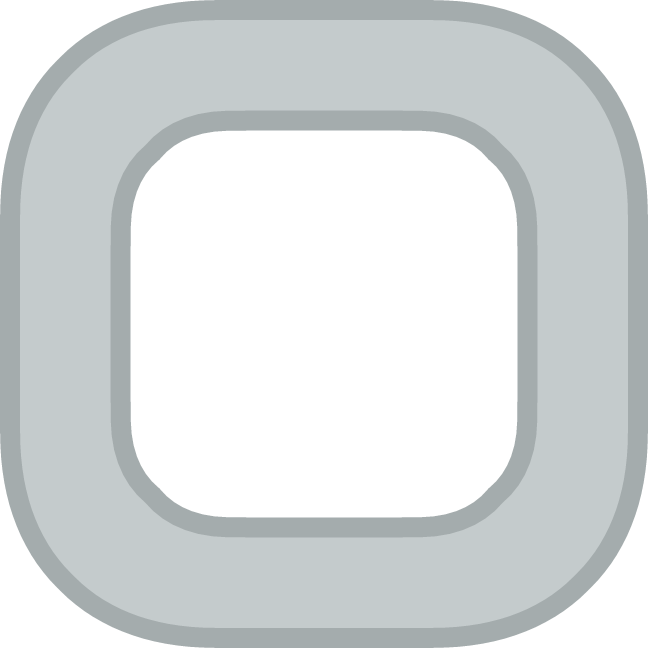
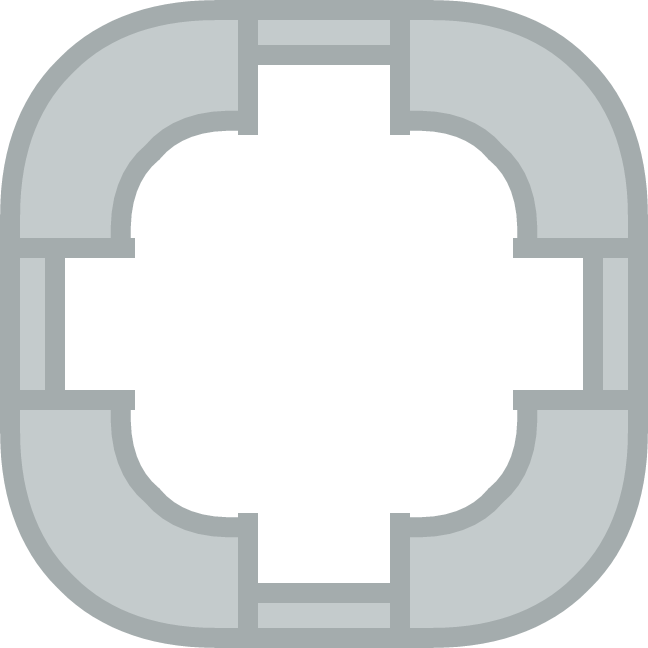
枠を「辺は細く・四隅だけ太い」に作り直し（版 2026-08-11p）
見本の角を拡大した画像をもらい、作りが違うことが分かった。
版nは全部の辺を太い帯にしていたが、正しくは
「辺は細い帯／四隅だけ太い帯」で、その境目に段が付く。

- もらった絵は太い帯だけなので、断面を測って同じ色で細い帯を作った
  （フチ #a4acad ／中身 #c4cbcc、細い帯＝太い帯の48%）
- 角から238pxの位置で段を付け、そこから先を細い帯に。段は内側に付ける
  （外側の線は通しのまま。外に段を付けると枠が波打って見える）
- 寸法 太い帯135px／細い帯65px／外側の丸み194px／角300px
  画面で細い帯を約4pxにしたいので 4÷(65/300)≒18px、丸みは12px
- 作り方は icons/README_frame.md に更新して残した
版名4点セットを 2026-08-11p / nn-cache-v99 に更新

diff --git a/kirokucho_demo.html b/kirokucho_demo.html
@@ -4247,7 +4247,7 @@ nav, nav#nav{justify-content:center !important; padding-left:6px !important; pad
    古いものが出続けることがある。そこで ver.txt（数バイト）だけを
    毎回見に行き、公開版と違っていたら保存分を捨てて1回だけ読み直す。
    ★公開のたびに ver.txt と、下の NN_VER を同じ文字に更新すること。 */
-const NN_VER='2026-08-11n';
+const NN_VER='2026-08-11p';
 /* ============ 表示にかかった時間の記録（原因調査用・2026-07-28） ============
    スマホの実機でどこに時間がかかっているかを数字で出す。
    ・net  ＝ページを要求してから最初の返事が来るまで（通信の待ち）
@@ -5856,17 +5856,17 @@ html[data-nnphone="1"] .stchip.on{ padding:5px 11px !important; }
      画面で帯を約6pxにしたいので 6 ÷ (130/300) ≒ 14px を border-width に。
      背景の角も 194×(14/300) ≒ 9px で丸めて、帯の外側の曲がりに合わせる。 */
 html.nnhasframe #dashboard .dpanel{
-  border:14px solid transparent !important;
-  border-image:url('./icons/frame_panel.png') 300 / 14px / 0 stretch !important;
-  border-radius:9px !important;
+  border:18px solid transparent !important;
+  border-image:url('./icons/frame_panel.png') 300 / 18px / 0 stretch !important;
+  border-radius:12px !important;
   background:linear-gradient(180deg,#ffffff 0%,#fbfdfb 70%,#f5f9f5 100%) !important;
   box-shadow:0 2px 5px rgba(30,60,42,.16) !important;
   padding:10px 12px 11px !important;
 }
 html.nnhasframe[data-nnphone="1"] #dashboard .dpanel{
-  border-width:11px !important;
-  border-image-width:11px !important;
-  border-radius:7px !important;
+  border-width:15px !important;
+  border-image-width:15px !important;
+  border-radius:10px !important;
   padding:7px 9px 8px !important;
 }
 html.nnhasframe #dashboard .dpanel::before,

diff --git a/index.html b/index.html
@@ -369,7 +369,7 @@ nav, nav#nav{overflow:visible; padding-top:2px;}
 
 <!-- 版の表示：スマホに届いている中身がどれかを、お互いに確認するための小さな印。
      不要になったらこの1行と #nnver の指定を消してください。 -->
-<div id="nnver">v2026-08-11 n</div>
+<div id="nnver">v2026-08-11 p</div>
 <script>
 /* ============ 実機の計測結果を表示（原因調査用・2026-07-28） ============
    数字の意味（単位はミリ秒）
@@ -703,7 +703,7 @@ nav, nav#nav{justify-content:center !important; padding-left:6px !important; pad
    古いものが出続けることがある。そこで ver.txt（数バイト）だけを
    毎回見に行き、公開版と違っていたら保存分を捨てて1回だけ読み直す。
    ★公開のたびに ver.txt と、下の NN_VER を同じ文字に更新すること。 */
-const NN_VER='2026-08-11n';
+const NN_VER='2026-08-11p';
 /* ============ 表示にかかった時間の記録（原因調査用・2026-07-28） ============
    スマホの実機でどこに時間がかかっているかを数字で出す。
    ・net  ＝ページを要求してから最初の返事が来るまで（通信の待ち）

diff --git a/camera.html b/camera.html
@@ -1085,7 +1085,7 @@ nav, nav#nav{justify-content:center !important; padding-left:6px !important; pad
    古いものが出続けることがある。そこで ver.txt（数バイト）だけを
    毎回見に行き、公開版と違っていたら保存分を捨てて1回だけ読み直す。
    ★公開のたびに ver.txt と、下の NN_VER を同じ文字に更新すること。 */
-const NN_VER='2026-08-11n';
+const NN_VER='2026-08-11p';
 /* ============ 表示にかかった時間の記録（原因調査用・2026-07-28） ============
    スマホの実機でどこに時間がかかっているかを数字で出す。
    ・net  ＝ページを要求してから最初の返事が来るまで（通信の待ち）

diff --git a/genba_map_v36.html b/genba_map_v36.html
@@ -4670,7 +4670,7 @@ nav, nav#nav{justify-content:center !important; padding-left:6px !important; pad
    古いものが出続けることがある。そこで ver.txt（数バイト）だけを
    毎回見に行き、公開版と違っていたら保存分を捨てて1回だけ読み直す。
    ★公開のたびに ver.txt と、下の NN_VER を同じ文字に更新すること。 */
-const NN_VER='2026-08-11n';
+const NN_VER='2026-08-11p';
 /* ============ 表示にかかった時間の記録（原因調査用・2026-07-28） ============
    スマホの実機でどこに時間がかかっているかを数字で出す。
    ・net  ＝ページを要求してから最初の返事が来るまで（通信の待ち）

diff --git a/kokkosho.html b/kokkosho.html
@@ -2382,7 +2382,7 @@ nav, nav#nav{justify-content:center !important; padding-left:6px !important; pad
    古いものが出続けることがある。そこで ver.txt（数バイト）だけを
    毎回見に行き、公開版と違っていたら保存分を捨てて1回だけ読み直す。
    ★公開のたびに ver.txt と、下の NN_VER を同じ文字に更新すること。 */
-const NN_VER='2026-08-11n';
+const NN_VER='2026-08-11p';
 /* ============ 表示にかかった時間の記録（原因調査用・2026-07-28） ============
    スマホの実機でどこに時間がかかっているかを数字で出す。
    ・net  ＝ページを要求してから最初の返事が来るまで（通信の待ち）

diff --git a/library.html b/library.html
@@ -1115,7 +1115,7 @@ nav, nav#nav{justify-content:center !important; padding-left:6px !important; pad
    古いものが出続けることがある。そこで ver.txt（数バイト）だけを
    毎回見に行き、公開版と違っていたら保存分を捨てて1回だけ読み直す。
    ★公開のたびに ver.txt と、下の NN_VER を同じ文字に更新すること。 */
-const NN_VER='2026-08-11n';
+const NN_VER='2026-08-11p';
 /* ============ 表示にかかった時間の記録（原因調査用・2026-07-28） ============
    スマホの実機でどこに時間がかかっているかを数字で出す。
    ・net  ＝ページを要求してから最初の返事が来るまで（通信の待ち）

diff --git a/shiyo_toroku.html b/shiyo_toroku.html
@@ -1622,7 +1622,7 @@ nav, nav#nav{justify-content:center !important; padding-left:6px !important; pad
    古いものが出続けることがある。そこで ver.txt（数バイト）だけを
    毎回見に行き、公開版と違っていたら保存分を捨てて1回だけ読み直す。
    ★公開のたびに ver.txt と、下の NN_VER を同じ文字に更新すること。 */
-const NN_VER='2026-08-11n';
+const NN_VER='2026-08-11p';
 /* ============ 表示にかかった時間の記録（原因調査用・2026-07-28） ============
    スマホの実機でどこに時間がかかっているかを数字で出す。
    ・net  ＝ページを要求してから最初の返事が来るまで（通信の待ち）

diff --git a/yougo.html b/yougo.html
@@ -1369,7 +1369,7 @@ nav, nav#nav{justify-content:center !important; padding-left:6px !important; pad
    古いものが出続けることがある。そこで ver.txt（数バイト）だけを
    毎回見に行き、公開版と違っていたら保存分を捨てて1回だけ読み直す。
    ★公開のたびに ver.txt と、下の NN_VER を同じ文字に更新すること。 */
-const NN_VER='2026-08-11n';
+const NN_VER='2026-08-11p';
 /* ============ 表示にかかった時間の記録（原因調査用・2026-07-28） ============
    スマホの実機でどこに時間がかかっているかを数字で出す。
    ・net  ＝ページを要求してから最初の返事が来るまで（通信の待ち）

diff --git a/zairyo_toroku.html b/zairyo_toroku.html
@@ -1508,7 +1508,7 @@ nav, nav#nav{justify-content:center !important; padding-left:6px !important; pad
    古いものが出続けることがある。そこで ver.txt（数バイト）だけを
    毎回見に行き、公開版と違っていたら保存分を捨てて1回だけ読み直す。
    ★公開のたびに ver.txt と、下の NN_VER を同じ文字に更新すること。 */
-const NN_VER='2026-08-11n';
+const NN_VER='2026-08-11p';
 /* ============ 表示にかかった時間の記録（原因調査用・2026-07-28） ============
    スマホの実機でどこに時間がかかっているかを数字で出す。
    ・net  ＝ページを要求してから最初の返事が来るまで（通信の待ち）

diff --git a/zumen_sekisan.html b/zumen_sekisan.html
@@ -3561,7 +3561,7 @@ nav, nav#nav{justify-content:center !important; padding-left:6px !important; pad
    古いものが出続けることがある。そこで ver.txt（数バイト）だけを
    毎回見に行き、公開版と違っていたら保存分を捨てて1回だけ読み直す。
    ★公開のたびに ver.txt と、下の NN_VER を同じ文字に更新すること。 */
-const NN_VER='2026-08-11n';
+const NN_VER='2026-08-11p';
 /* ============ 表示にかかった時間の記録（原因調査用・2026-07-28） ============
    スマホの実機でどこに時間がかかっているかを数字で出す。
    ・net  ＝ページを要求してから最初の返事が来るまで（通信の待ち）

diff --git a/hacchu.html b/hacchu.html
@@ -975,7 +975,7 @@ nav, nav#nav{justify-content:center !important; padding-left:6px !important; pad
    古いものが出続けることがある。そこで ver.txt（数バイト）だけを
    毎回見に行き、公開版と違っていたら保存分を捨てて1回だけ読み直す。
    ★公開のたびに ver.txt と、下の NN_VER を同じ文字に更新すること。 */
-const NN_VER='2026-08-11n';
+const NN_VER='2026-08-11p';
 /* ============ 表示にかかった時間の記録（原因調査用・2026-07-28） ============
    スマホの実機でどこに時間がかかっているかを数字で出す。
    ・net  ＝ページを要求してから最初の返事が来るまで（通信の待ち）

diff --git a/sw.js b/sw.js
@@ -11,7 +11,7 @@
      ので、こちらの修正が確実に端末へ届く。
      ★ページを直したら、必ずこの番号を1つ上げること。
    ============================================================ */
-const CACHE = 'nn-cache-v98';
+const CACHE = 'nn-cache-v99';
 
 const ASSETS = [
   './',
